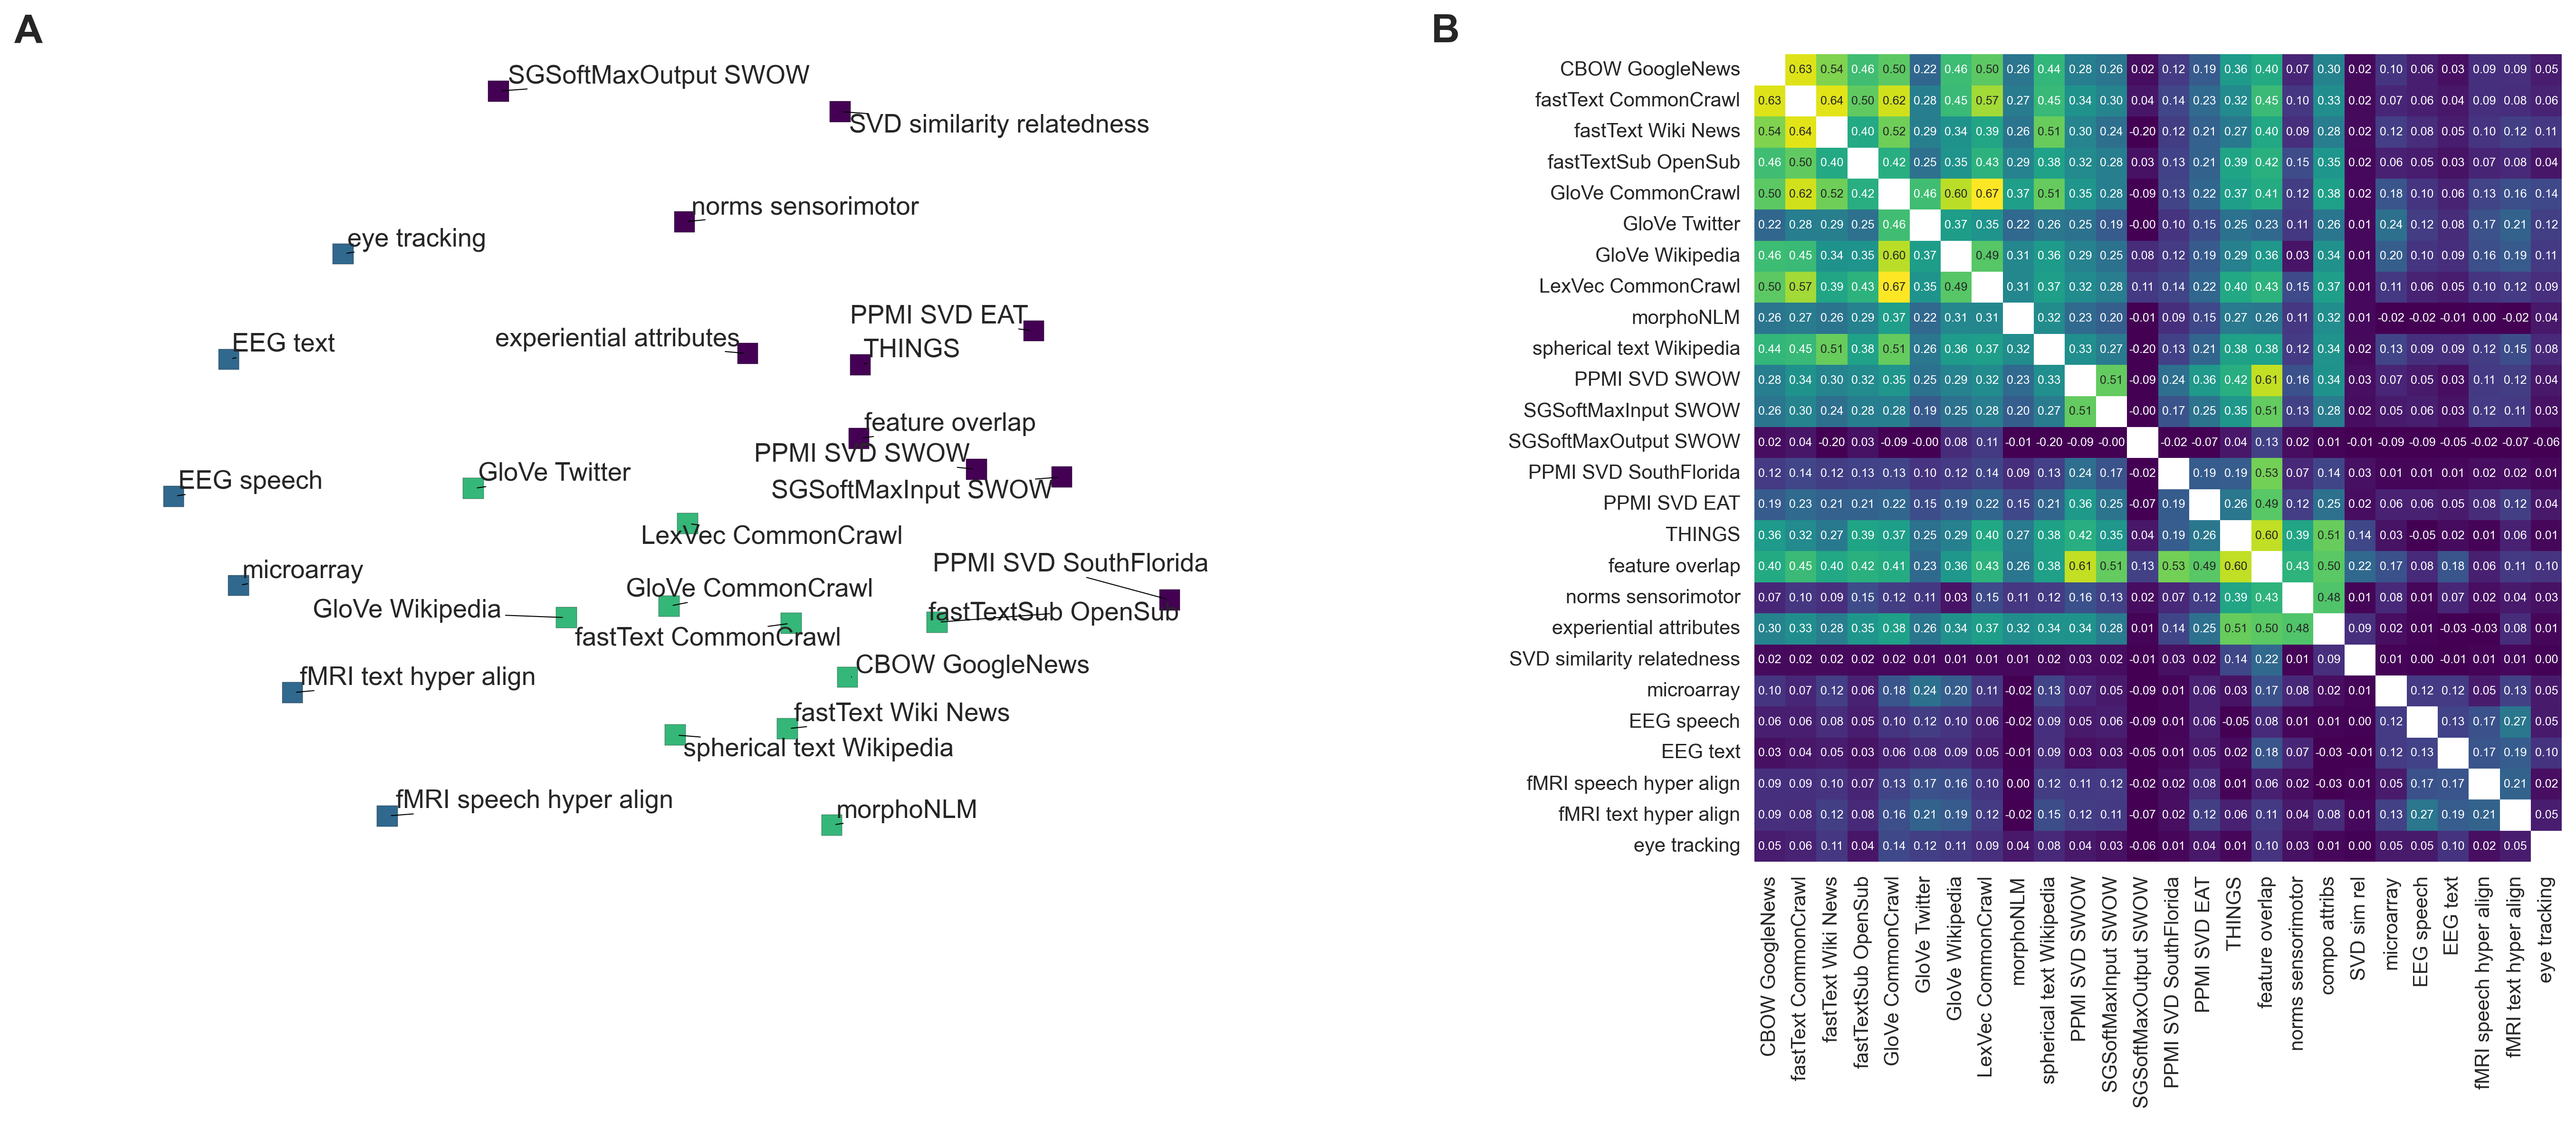
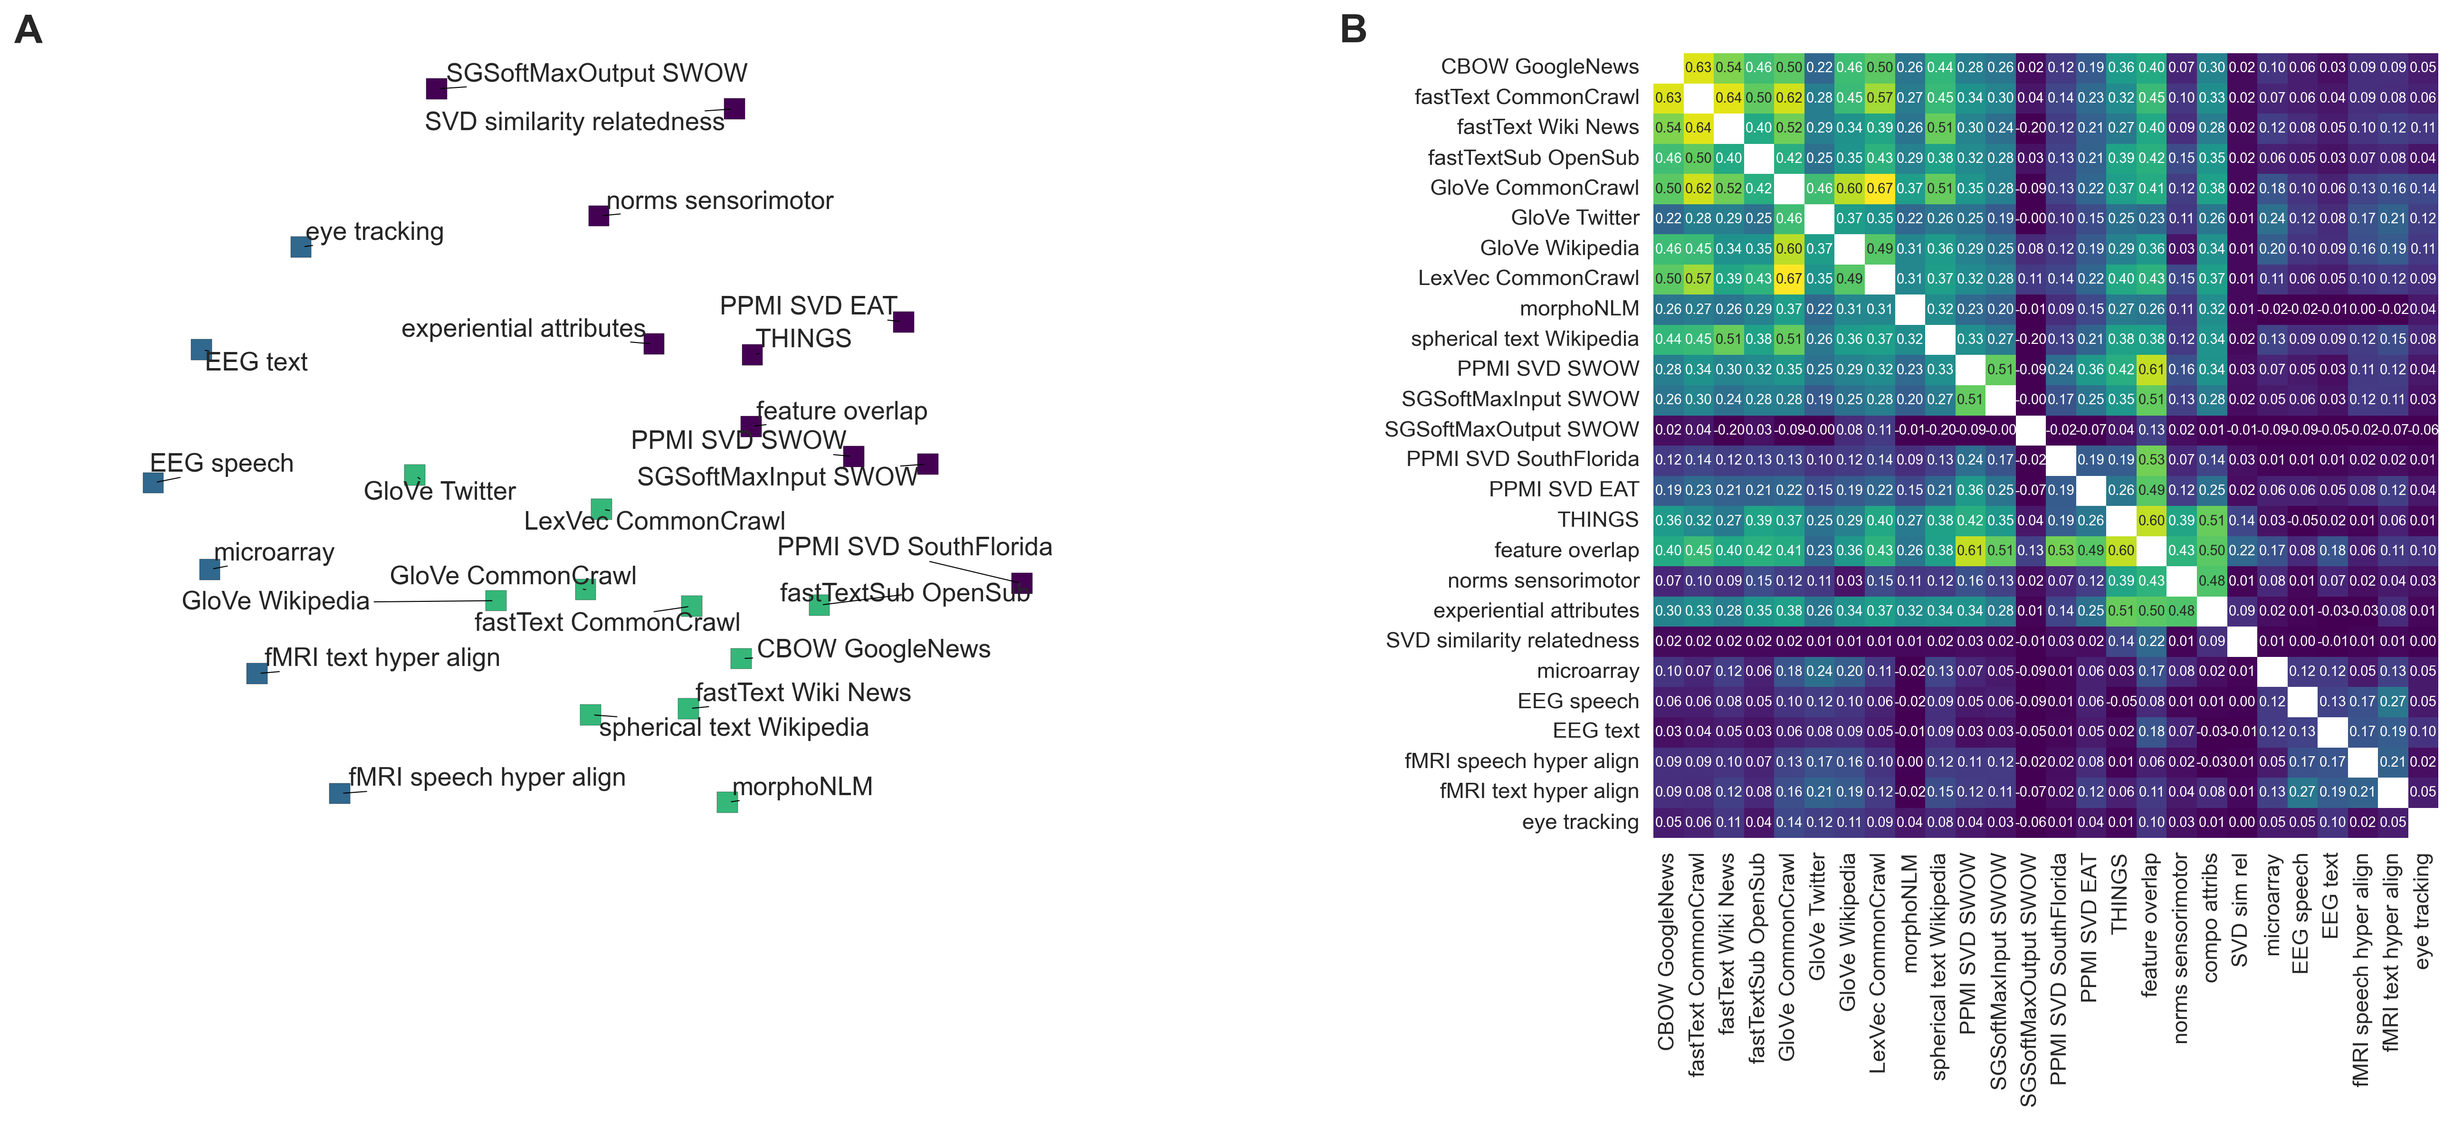
add note on compo_attribs -> experiental

diff --git a/README.md b/README.md
@@ -1,9 +1,5 @@
 ## psychProbing
 
-To do:
-
-1. Rename 'compo_attribs' to 'experiential_attributes' everywhere.
-
 This repository contains the code for the paper:
 
 Hussain, Z., Mata, R., Newell, Ben R., & Wulff, D. U. (2024). Probing the Contents of Semantic Representations from Text, Behavior, and Brain Data Using the psychNorms Metabase. *arXiv preprint arXiv:XXXXXX*.
@@ -63,6 +59,8 @@ The original sources of the representations are as follows:
 - [`compo_attribs`](https://www.neuro.mcw.edu/index.php/resources/brain-based-semantic-representations/) ('word_ratings.zip')
 - `SVD_sim_rel`: 'AG203', 'BakerVerb', 'MartinezAldana', 'MC30', 'MEN3000', 'RG65', 'SimLex999', 'SimVerb3500', 'SL7576sem', 'SL7576vis', 'WP300', 'YP130', 'Atlasify240', 'GM30', 'MT287', 'MT771', 'Rel122',
        'RW2034', 'WordSim353', 'Zie25', 'Zie30' (datasets were combined, min-max scaled and then processed with SVD transformation).
+
+Note: `compo_attribs` has been renamed to 'experiential attributes' in the paper and figures to be consistent with the terminolgy in the psychNorms metabase.
 
 ### Norms
 
